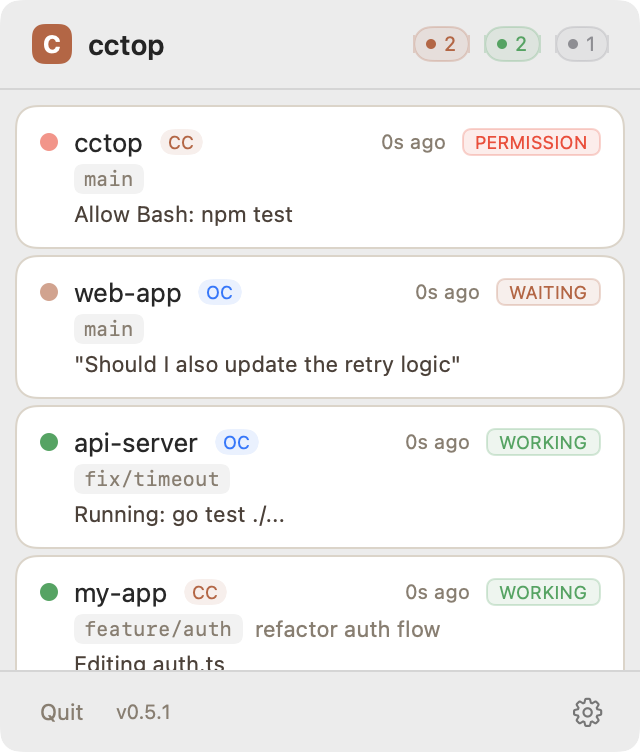
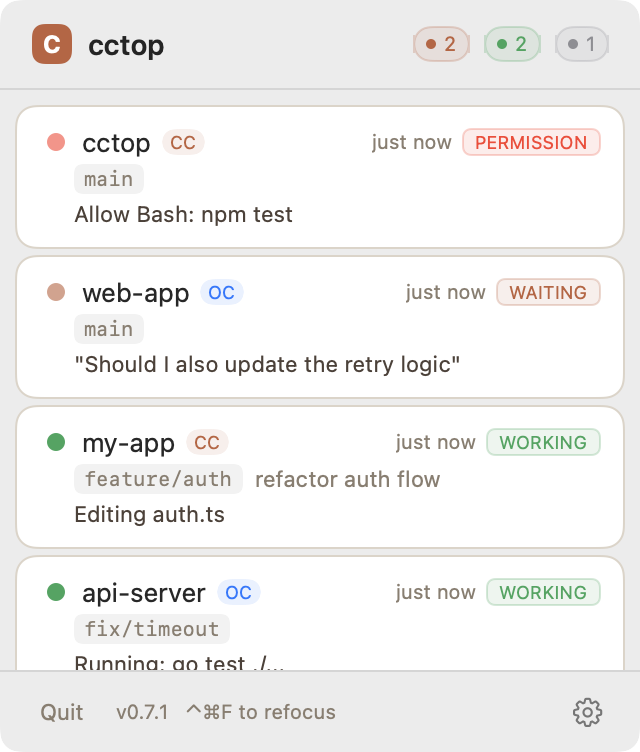
docs: refresh README screenshots and rewrite Features section
Update screenshots to reflect current UI (v0.7.1). Add refocus mode
and recent projects screenshots. Rewrite Features section with
scannable bold-lead format. Remove old menubar-screenshot.png.

Add initialTab parameter to PopupView and snapshot tests for refocus
and recent projects views.

diff --git a/menubar/CctopMenubarTests/SnapshotTests.swift b/menubar/CctopMenubarTests/SnapshotTests.swift
@@ -11,17 +11,35 @@ final class SnapshotTests: XCTestCase {
     ///     -only-testing:CctopMenubarTests/SnapshotTests/testGenerateMenubarScreenshot \
     ///     -derivedDataPath menubar/build/ CODE_SIGN_IDENTITY="-"
     func testGenerateMenubarScreenshot() throws {
-        try renderScreenshot(colorScheme: .light, filename: "menubar-light.png")
-        try renderScreenshot(colorScheme: .dark, filename: "menubar-dark.png")
+        let view = PopupView(sessions: Session.qaShowcase, updater: DisabledUpdater())
+        try renderScreenshot(view: view, colorScheme: .light, filename: "menubar-light.png")
+        try renderScreenshot(view: view, colorScheme: .dark, filename: "menubar-dark.png")
     }
 
-    private func renderScreenshot(colorScheme: ColorScheme, filename: String) throws {
+    func testGenerateRefocusScreenshot() throws {
+        let rc = RefocusController()
+        rc.isActive = true
+        let view = PopupView(
+            sessions: Session.qaShowcase, updater: DisabledUpdater(), refocus: rc
+        )
+        try renderScreenshot(view: view, colorScheme: .dark, filename: "menubar-refocus.png")
+    }
+
+    func testGenerateRecentProjectsScreenshot() throws {
+        let view = PopupView(
+            sessions: Session.qaShowcase, recentProjects: RecentProject.mockRecents,
+            updater: DisabledUpdater(), initialTab: .recent
+        )
+        try renderScreenshot(view: view, colorScheme: .dark, filename: "menubar-recent.png")
+    }
+
+    private func renderScreenshot(view: some View, colorScheme: ColorScheme, filename: String) throws {
         let docsDir = ProcessInfo.processInfo.environment["SRCROOT"]
             .map { $0 + "/../docs" } ?? "/tmp"
         let outputPath = "\(docsDir)/\(filename)"
 
         let appearance: NSAppearance.Name = colorScheme == .dark ? .darkAqua : .aqua
-        let view = PopupView(sessions: Session.qaShowcase, updater: DisabledUpdater())
+        let styled = view
             .frame(width: 320)
             .background(Color(NSColor.windowBackgroundColor))
             .clipShape(RoundedRectangle(cornerRadius: 10))
@@ -35,7 +53,7 @@ final class SnapshotTests: XCTestCase {
         )
         window.appearance = NSAppearance(named: appearance)
 
-        let hostingView = NSHostingView(rootView: view)
+        let hostingView = NSHostingView(rootView: styled)
         window.contentView = hostingView
 
         let fittingSize = hostingView.fittingSize

diff --git a/menubar/CctopMenubar/Views/PopupView.swift b/menubar/CctopMenubar/Views/PopupView.swift
@@ -22,6 +22,7 @@ struct PopupView: View {
     @ObservedObject var updater: UpdaterBase
     var pluginManager: PluginManager?
     var refocus: RefocusController?
+    var initialTab: PopupTab = .active
     @State private var selectedTab: PopupTab = .active
     @State private var activeOverlay: Overlay?
     @State private var hideContent = false
@@ -83,6 +84,7 @@ struct PopupView: View {
             handleNavAction(action)
         }
         .onChange(of: selectedTab) { _ in selectedIndex = nil }
+        .onAppear { selectedTab = initialTab }
     }
 
     private func overlayPanel<Content: View>(@ViewBuilder content: () -> Content) -> some View {

diff --git a/README.md b/README.md
@@ -8,24 +8,32 @@
 A macOS menubar app that monitors your AI coding sessions at a glance — so you only switch when something actually needs you. Works with [Claude Code](https://docs.anthropic.com/en/docs/claude-code) and [opencode](https://opencode.ai).
 
 <p align="center">
-  <img src="docs/menubar-screenshot.png" alt="cctop menubar popup" width="340">
+  <img src="docs/menubar-light.png" alt="cctop menubar popup (light mode)" width="340">
+  &nbsp;&nbsp;
+  <img src="docs/menubar-dark.png" alt="cctop menubar popup (dark mode)" width="340">
 </p>
 
-<p align="center"><em>Monitoring Claude Code and opencode sessions side by side.</em></p>
-
-<p align="center">
-  <img src="docs/menubar-dark.png" alt="cctop dark mode" width="340">
-</p>
-
-<p align="center"><em>Status badges show what's urgent — permission requests, waiting input, or still working.</em></p>
+<p align="center"><em>Monitoring Claude Code and opencode sessions side by side — light and dark mode.</em></p>
 
 ## Features
 
-- Lives in your menubar — one click or a keyboard shortcut away
-- Color-coded status badges: idle, working, waiting for input, waiting for permission, compacting
-- See what each session is doing: the current prompt, tool being used, or last activity
-- Click a session to jump to its VS Code/Cursor/iTerm window
-- Native macOS app — lightweight, always running, no Electron
+**At-a-glance status.** A floating menubar panel shows all active sessions with color-coded badges: idle, working, waiting for input, waiting for permission, compacting. See the current prompt or tool in use (e.g. "Editing auth.ts") without switching windows.
+
+**Jump directly to any session.** Click a session card to raise its VS Code, Cursor, or iTerm2 window — or stay on the keyboard. Arrow keys to browse, Enter to jump, Tab to switch tabs.
+
+**Refocus mode.** Hit a global hotkey to overlay numbered badges (1–9) on every session card, then press the number to jump instantly.
+
+<p align="center">
+  <img src="docs/menubar-refocus.png" alt="cctop refocus mode with numbered badges" width="340">
+</p>
+
+**Recent Projects.** A second tab keeps session history so you can reopen past projects easily.
+
+<p align="center">
+  <img src="docs/menubar-recent.png" alt="cctop recent projects tab" width="340">
+</p>
+
+Works with [Claude Code](https://docs.anthropic.com/en/docs/claude-code) and [opencode](https://opencode.ai).
 
 ## Installation
 
